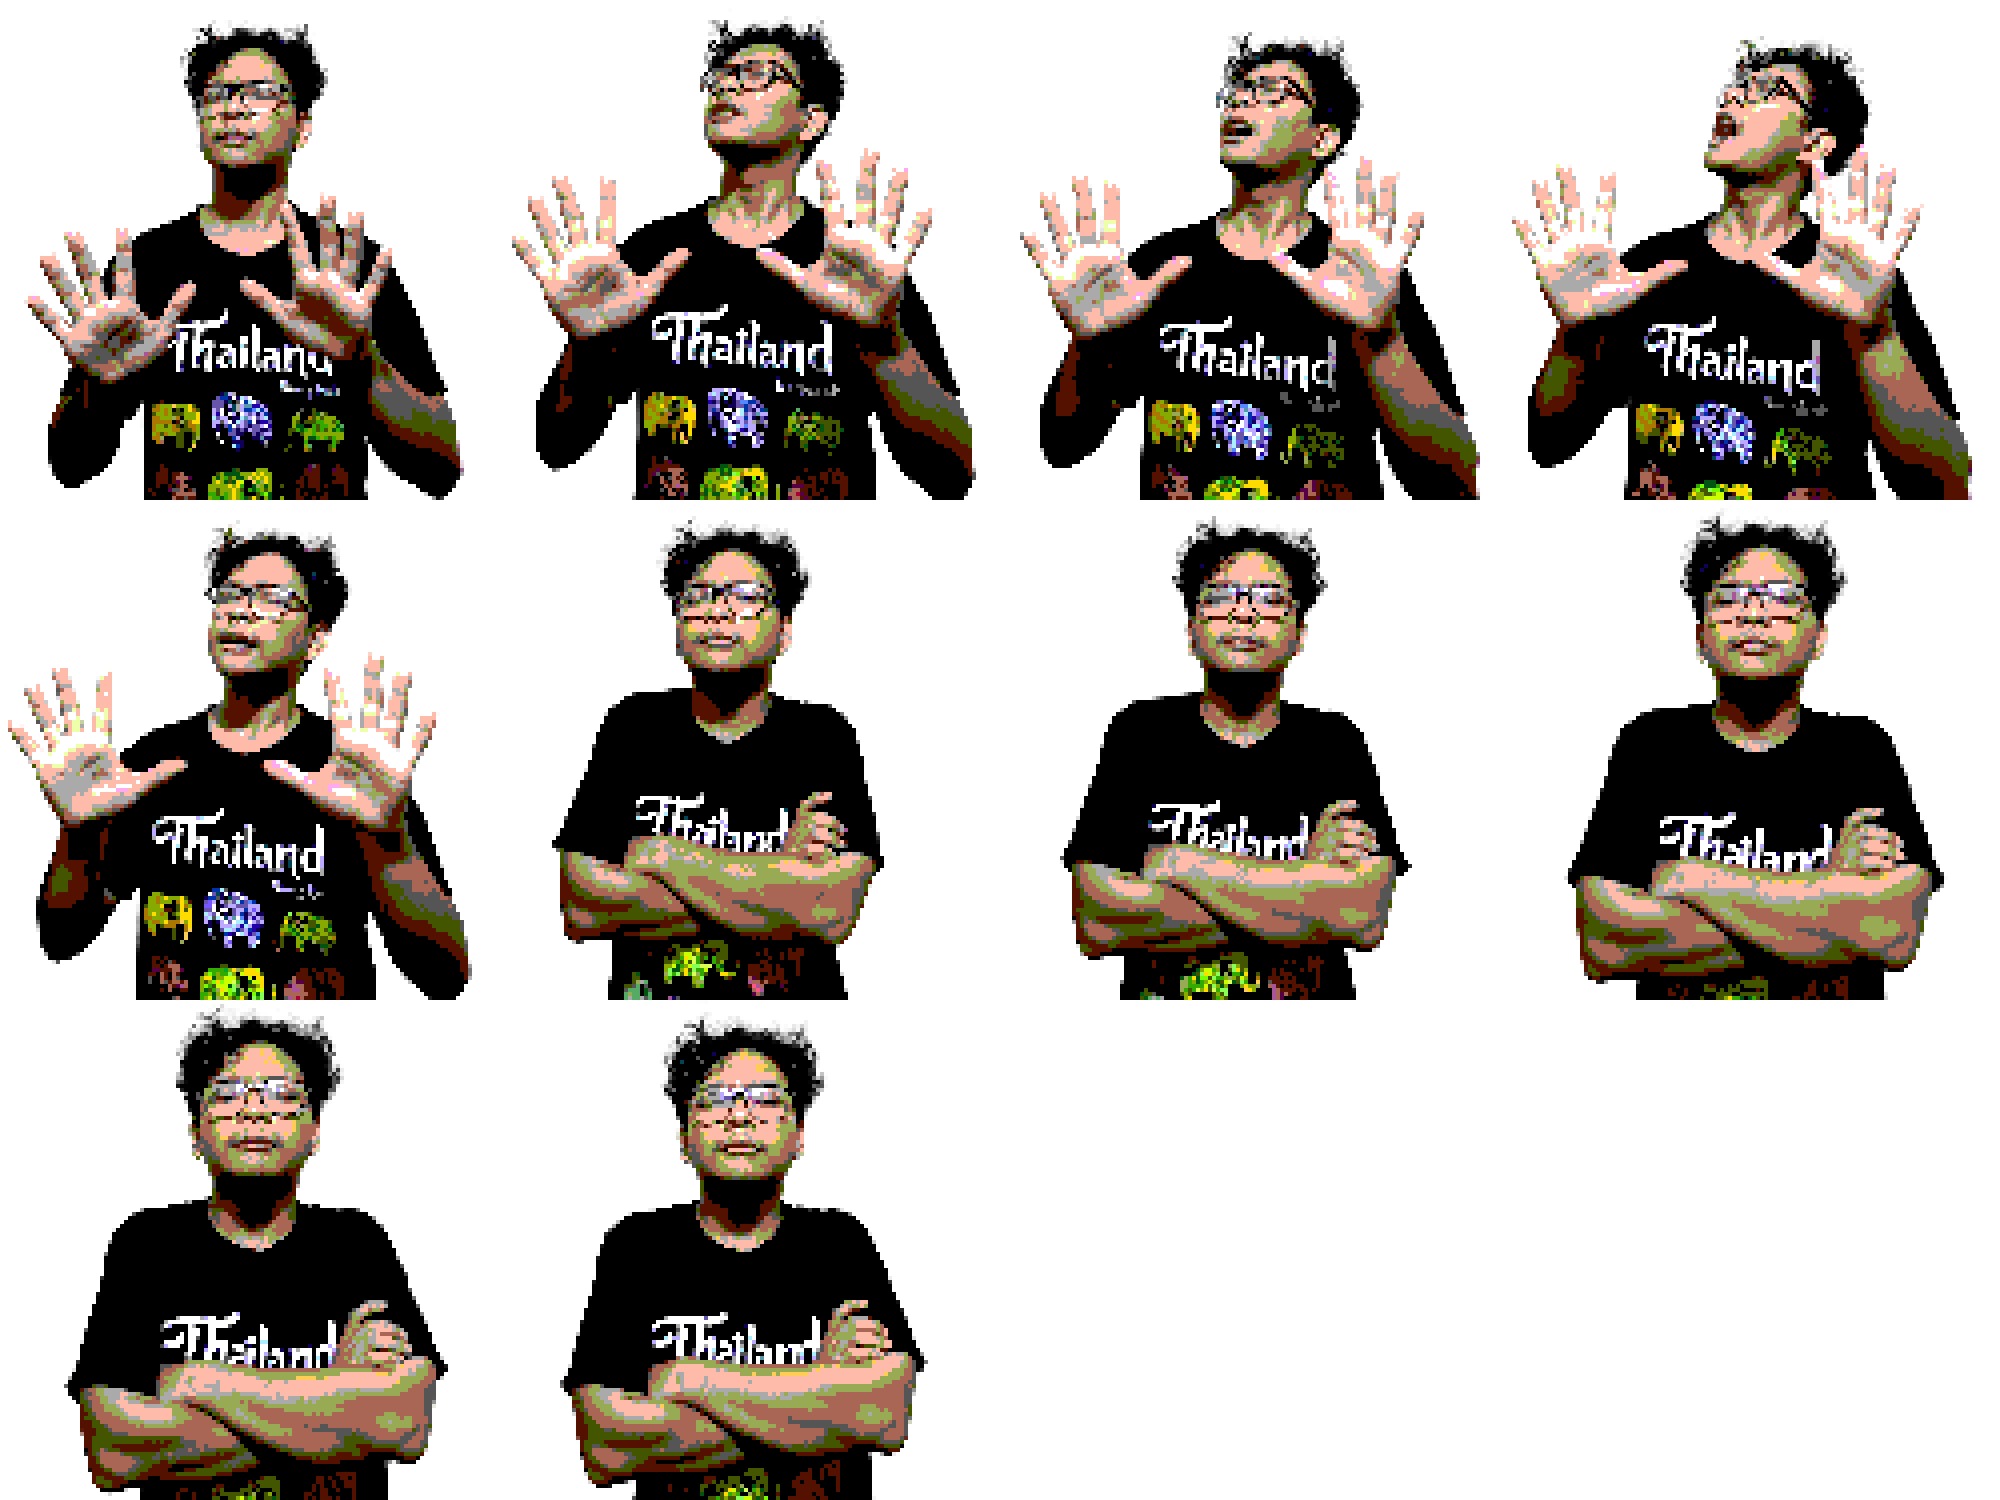
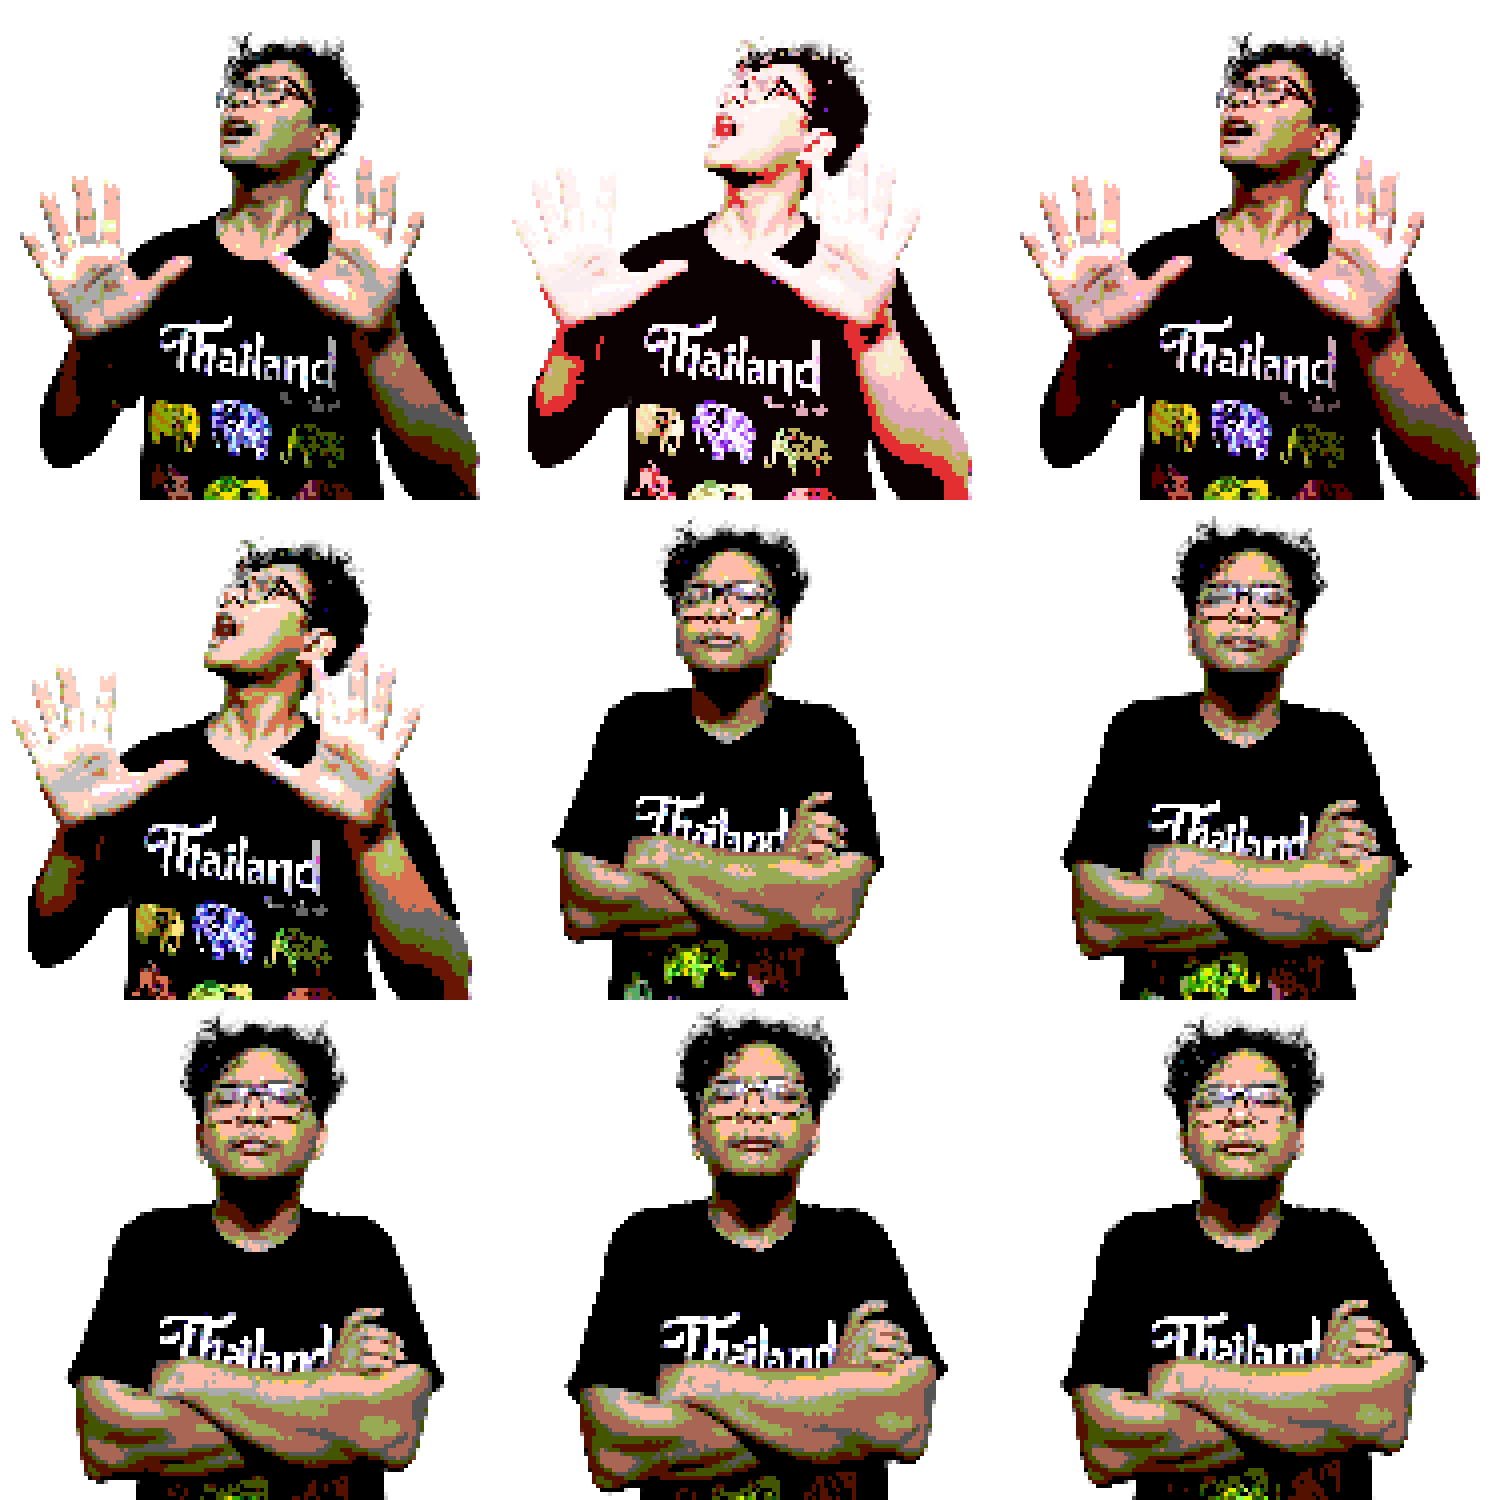
change score to timer, update sprite, healthbar,

diff --git a/src/components/Timer.vue b/src/components/Timer.vue
@@ -1,0 +1,101 @@
+<template>
+  <div class="unbounded text-primary-1 text-base-constant">
+    TIMER <br>
+    <div v-if="!timeLimitReached" class="flex items-center justify-center gap-[1vh]">
+      <div class="text-center unbounded font-bold text-primary-1 text-score-constant w-2/4">{{ minutesString }}</div>
+      <div class="text-center text-score-constant w-1/3">:</div>
+      <div class="text-center unbounded font-bold text-primary-1 text-score-constant w-2/4">{{ secondsString }}</div>
+    </div>
+    <div v-else class="flex items-center justify-center gap-[1vh]">
+      <div class="text-center unbounded font-bold text-primary-1 text-score-constant">Times Up</div>
+    </div>
+  </div>
+</template>
+
+<script setup>
+const mainStore = useMainStore()
+const { state } = storeToRefs(mainStore)
+
+const minutesInput = ref(1)
+const minutesTime = ref(1)
+const secondsTime = ref(0)
+const minutesString = ref("")
+const secondsString = ref("")
+const timeLimitReached = ref(false)
+let interval
+
+minutesString.value = String(minutesInput.value).padStart(2, '0')
+secondsString.value = "0".padStart(2, '0')
+
+const timerInterval = () => {
+  const now = new Date(new Date() + (minutesInput.value * 60 * 1000)).getTime();
+
+  clearInterval(interval)
+  interval = setInterval(() => {
+    const currentTime = new Date().getTime();
+
+    const distance = now - currentTime;
+
+    const minutes = Math.floor((distance % (1000 * 60 * 60)) / (1000 * 60));
+    const seconds = Math.floor((distance % (1000 * 60)) / 1000);
+
+    
+    minutesTime.value = minutesInput.value + minutes
+    secondsTime.value = 60 + seconds
+    console.log(minutesTime.value, secondsTime.value)
+    if(minutesTime.value === -1 && secondsTime.value === 59) {
+      minutesString.value = String(minutesInput.value).padStart(2, '0')
+      secondsString.value = "0".padStart(2, '0')
+      mainStore.setGameOverState()
+    } else {
+      minutesString.value = String(minutesTime.value).padStart(2, '0')
+      secondsString.value = String(secondsTime.value + 1).padStart(2, '0')
+    }
+  }, 1000);  
+}
+
+const startTimer = () => {
+  minutesTime.value = minutesInput.value
+  minutesString.value = String(minutesTime.value).padStart(2, '0')
+  secondsString.value = "0".padStart(2, '0')
+  timeLimitReached.value = false
+  const delay = setTimeout(() => {
+    timerInterval()
+    clearTimeout(delay)
+  }, 1000)
+}
+
+const stopTimer = () => {
+  timeLimitReached.value = true
+  minutesTime.value = minutesInput.value
+  minutesString.value = String(minutesTime.value).padStart(2, '0')
+  secondsString.value = "0".padStart(2, '0')
+  clearInterval(interval)
+}
+
+const idlesState = () => {
+  timeLimitReached.value = false
+  minutesTime.value = minutesInput.value
+  minutesString.value = String(minutesTime.value).padStart(2, '0')
+  secondsString.value = "0".padStart(2, '0')
+  mainStore.setHealth({health: 100, step: 1})
+  interval && clearInterval(interval)
+}
+
+onMounted(() => {
+  mainStore.setIdleState()
+})
+
+watch(() => state.value, (val) => {
+  console.log(val)
+  if (val === 'start') {
+    startTimer()
+  } else if (val === 'over') {
+    stopTimer()
+  } else if (val === 'idle') {
+    idlesState()
+  }
+})
+
+
+</script>

diff --git a/src/pages/index.vue b/src/pages/index.vue
@@ -33,27 +33,27 @@ const initGameplay = async () => {
   ably = new $ably.Realtime({
     key: config.app.ablyAPIKey,
   });
-  // ably.connection.once('connected', () => {
-  //   gameRoom = ably.channels.get(`room-${roomIDSync.value}`);
-  //   gameRoom.presence.subscribe("enter", (player) => {
-  //     console.log('new player add to the team')
-  //   });
-  //   gameRoom.presence.subscribe("leave", (player) => {
-  //     console.log('someone leave')
-  //   });
+  ably.connection.once('connected', () => {
+    gameRoom = ably.channels.get(`room-${roomIDSync.value}`);
+    gameRoom.presence.subscribe("enter", (player) => {
+      console.log('new player add to the team')
+    });
+    gameRoom.presence.subscribe("leave", (player) => {
+      console.log('someone leave')
+    });
 
-  //   gameRoom.presence.subscribe(async (presenceMessage) => {
-  //     const presenceSet = await gameRoom.presence.get();
+    gameRoom.presence.subscribe(async (presenceMessage) => {
+      const presenceSet = await gameRoom.presence.get();
 
-  //     if (presenceSet.length > 0) {
-  //       console.log('There are ' + presenceSet.length + ' players on this channel');
-  //       deviceConnected.value = presenceSet.length
-  //     } else {
-  //       console.log('There are ' + presenceSet.length + ' players on this channel');
-  //       deviceConnected.value = 0
-  //     }
-  //   });
-  // })
+      if (presenceSet.length > 0) {
+        console.log('There are ' + presenceSet.length + ' players on this channel');
+        deviceConnected.value = presenceSet.length
+      } else {
+        console.log('There are ' + presenceSet.length + ' players on this channel');
+        deviceConnected.value = 0
+      }
+    });
+  })
 }
 
 onMounted(() => {

diff --git a/src/components/Enemy.vue b/src/components/Enemy.vue
@@ -3,17 +3,47 @@
     <AnimatedSprite
       image="/boss-animation.png"
       atlas="/boss-animation.json"
-      animation="idle"
-      :fps="5"
+      :animation="animationsProps.animations[0]"
+      :fps="animationsProps.fps[0]"
       :loop="true"
       :center="[0.5, 0.5]"
-      :scale="[3.9, 3.9]"
+      :scale="[3.5, 3.5]"
+      :position="[0,-1, 0]"
+      @pointer-down="attackedAnimation"
+      @pointer-up="idleAnimation"
     />
   </Suspense>
 </template>
 
 <script setup>
+const animationsProps = ref({
+  animations: [
+    'idle',
+    'attacked'
+  ],
 
+  fps: [
+    5,
+    12
+  ]
+})
+
+const attackedAnimation = async () => {
+  animationsProps.value.animations.push(animationsProps.value.animations.shift())
+  animationsProps.value.fps.push(animationsProps.value.fps.shift())
+}
+
+const idleAnimation = async () => {
+  const timeout = setTimeout(() => {
+    animationsProps.value.animations.push(animationsProps.value.animations.shift())
+    animationsProps.value.fps.push(animationsProps.value.fps.shift())
+    clearTimeout(timeout)
+  }, 200)
+}
+
+watchEffect(() => {
+  console.log(animationsProps.value)
+})
 </script>
 
 <style lang="scss" scoped>

diff --git a/src/stores/index.js b/src/stores/index.js
@@ -4,11 +4,13 @@ export const useMainStore = defineStore({
   id: 'main-store',
   state: () => {
     return {
+      health: 100,
+      stepHealth: 1,
       receivedData: null,
       roomID: null, 
       gameOver: false, 
       timesOut :false,
-      score: 0,
+      state: 'idle',
       player: {},
     };
   },
@@ -38,6 +40,31 @@ export const useMainStore = defineStore({
     resetPlayerID () {
       this.player.id = {}
     },
+
+    setHealth (payload) {
+      this.health = payload.health
+      this.stepHealth = payload.step
+    },
+
+    decreaseHealth (payload) {
+      this.health -= payload
+    },
+
+    setIdleState () {
+      this.state = 'idle'
+    },
+
+    setStartGameState () {
+      this.state = 'start'
+    },
+
+    setGameOverState () {
+      this.state = 'over'
+    },
+
+    setWinState () {
+      this.state = 'won'
+    }
 
   },
 });

diff --git a/src/components/HealthBar.client.vue b/src/components/HealthBar.client.vue
@@ -1,0 +1,24 @@
+<template>
+  <div class="absolute top-[2vh] left-1/2 -translate-x-1/2 w-full h-[4vh] max-w-[40vw] -skew-x-[20deg] border-2 border-primary-1 z-10 p-[.5vh]">
+    <div class="relative w-full h-full">
+      <div ref="healthBarRef" class="absolute h-full w-full top-0 left-0 bg-primary-1"></div>
+    </div>
+  </div>
+</template>
+
+<script setup>
+const healthBarRef = ref()
+const mainStore = useMainStore()
+const { health, stepHealth } = storeToRefs(mainStore)
+const bossHealthStatus = computed(() => health.value)
+const healthDecreaseStep = computed(() => stepHealth.value)
+
+onMounted(() => {
+  window.addEventListener('click', () => {
+    mainStore.decreaseHealth(1)
+    healthBarRef.value.style.width = `${bossHealthStatus.value / healthDecreaseStep.value}%`
+    mainStore.setStartGameState()
+  })
+
+})
+</script>

diff --git a/src/components/Experience.vue b/src/components/Experience.vue
@@ -1,22 +1,13 @@
 <template>
+
   <TresPerspectiveCamera
     :position="[0, 0, 20]"
   />
   <!-- <OrbitControls /> -->
-
-  <!-- <TresMesh 
-    ref="enemyPlane" 
-    :rotation="[0, 0, Math.PI / 2]"
-    :position="[0, 0, 0]"
-  >
-    <TresPlaneGeometry :args="[10, 10, 10, 10]"/>
-    <TresMeshBasicMaterial color="#003f00"/>
-  </TresMesh> -->
-
+  
   <Enemy/>
 
-  <Crosshair/>
-
+  <!-- <Crosshair/> -->
 
 </template>
 

diff --git a/src/components/UIElements.vue b/src/components/UIElements.vue
@@ -1,7 +1,7 @@
 <template>
   <BackgroundPattern/>
   <LazyConnectedDevice :connected-device="props.connectedDevice" class="absolute bottom-[0.5vh] left-[1vh] z-1"/>
-  <Score class="absolute top-[0.8vh] left-[1vh] z-1"/>
+  <Timer class="absolute top-[0.8vh] left-[1vh] z-1"/>
   <GameLiveChat class="absolute bottom-[50vh] translate-y-[45vh] left-[1vh] z-1"/>
   <LazyQRRoom/>
 </template>

diff --git a/src/components/GamePlay.client.vue b/src/components/GamePlay.client.vue
@@ -1,7 +1,9 @@
 <template>
-  <TresCanvas :bind="gl" class="gameplay-canvas">
+  <TresCanvas v-bind="gl" class="gameplay-canvas">
     <Experience />
   </TresCanvas>
+
+  <HealthBar/>
 </template>
 
 <script setup>
@@ -14,7 +16,6 @@ const gl = {
   shadow: false, 
   antialias: true,
   alpha: true,
-  clearColor: "#000000",
   depth: false, 
   renderMode: 'on-demand'
 }

diff --git a/src/assets/styles/main.scss b/src/assets/styles/main.scss
@@ -83,7 +83,7 @@ html.lenis, html.lenis body {
   position: absolute !important;
   top: 0 !important;
   left: 0 !important;
-  z-index: 0;
+  z-index: 2;
 }
 
 // chat box settings
